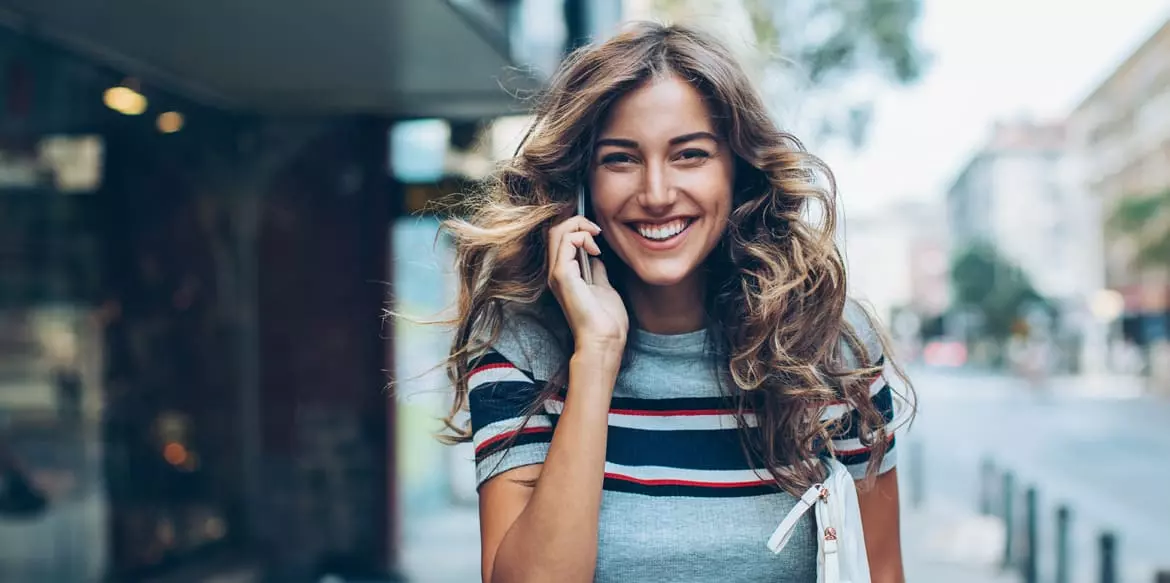
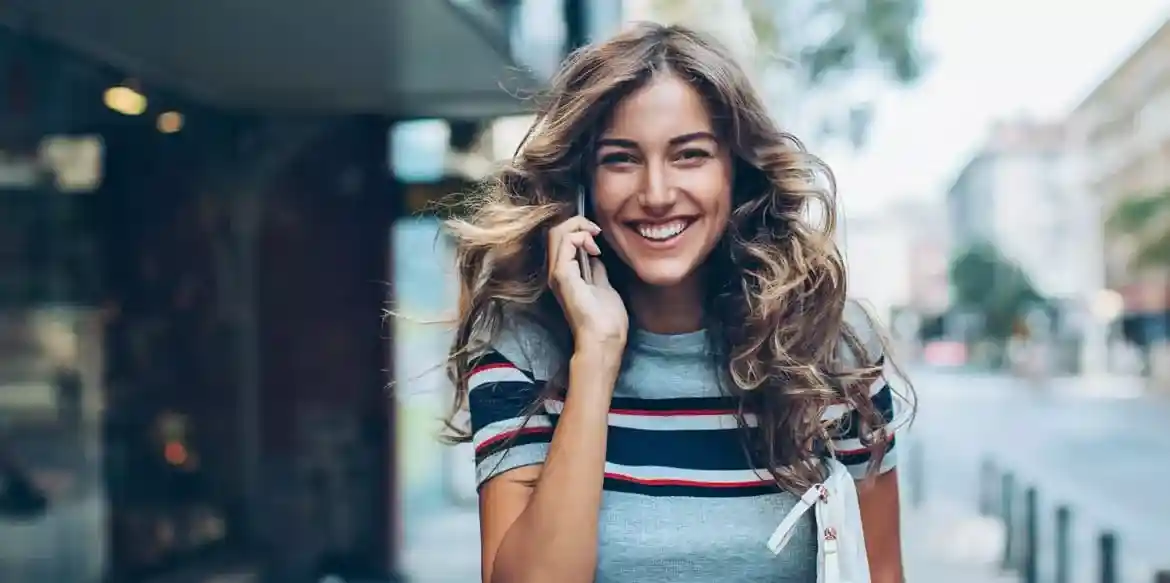
changes for images opimization

diff --git a/src/app/deals/pages/grid-view-promotion/grid-view-promotion.component.ts b/src/app/deals/pages/grid-view-promotion/grid-view-promotion.component.ts
@@ -20,26 +20,26 @@ import { RazaLayoutService } from '../../../core/services/raza-layout.service';
 import { BreakpointObserver } from '@angular/cdk/layout';
 
 import { DealsService } from '../../../deals/deals.service';
- 
+
 import { SearchRatesService } from '../../../rates/searchrates.service';
 import { GlobalRatesService } from '../../../home/globalrates.service';
- 
+
 import { DealRate } from '../../../deals/model/dealRate';
 import { ApiErrorResponse } from '../../../core/models/ApiErrorResponse';
 import { GlobalBuyComponent } from '../../../globalrates/global-buy/global-buy.component';
- 
+
 
 import { RazaEnvironmentService } from '../../../core/services/razaEnvironment.service';
 import { CountriesService } from '../../../core/services/country.service';
 import { Country } from '../../../shared/model/country';
 import { PromotionsService } from '../../services/promotions.service';
- 
+
 import { NodataFoundComponent } from '../../../core/nodata-found/nodata-found.component';
 
 import { PlanService } from '../../../accounts/services/planService';
 import { ICheckoutModel } from '../../../checkout/models/checkout-model';
 import { ValidateCouponCodeResponseModel , ValidateCouponCodeRequestModel} from 'app/payments/models/validate-couponcode-request.model';
-import { TransactionService } from '../../../payments/services/transaction.service'; 
+import { TransactionService } from '../../../payments/services/transaction.service';
 import { ErrorDialogComponent } from '../../../shared/dialog/error-dialog/error-dialog.component';
 import { ErrorDialogModel } from '../../../shared/model/error-dialog.model';
 import { MetaTagsService } from 'app/core/services/meta.service';
@@ -53,7 +53,7 @@ export class GridViewPromotionComponent implements OnInit {
   promotion: Promotion;
   currentSetting$: Subscription;
   currentSetting: CurrentSetting;
-  
+
   showmore: any;
   plan: PromotionPlan;
   promotionCode:string;
@@ -91,14 +91,14 @@ export class GridViewPromotionComponent implements OnInit {
     private promotionsService:PromotionsService,
     private planService: PlanService,
     private transactionService: TransactionService, private metaTagsService:MetaTagsService
-    
+
   ) { }
-   
-  
-      
-	
-     
-   
+
+
+
+
+
+
   ngOnInit() {
   //this.razalayoutService.setFixedHeader(true);
     //this.isSmallScreen = this.breakpointObserver.isMatched('(max-width: 868px)');
@@ -106,11 +106,11 @@ export class GridViewPromotionComponent implements OnInit {
     this.metaTagsService.getMetaTagsData('buy1-get1');
 
     if (this.authService.isAuthenticated()) {
-    //this.planService.getPlanInfo(localStorage.getItem("login_no")).subscribe( 
-      this.planService.getStoredPlan(localStorage.getItem("login_no")).subscribe( 
+    //this.planService.getPlanInfo(localStorage.getItem("login_no")).subscribe(
+      this.planService.getStoredPlan(localStorage.getItem("login_no")).subscribe(
       (res:any)=>{
-        
-         
+
+
         if(res.CardId && res.CardId !== 'undefined')
         {
             var obj =  {
@@ -121,11 +121,11 @@ export class GridViewPromotionComponent implements OnInit {
               Price: 3,
               TransType: TransactionType.Recharge
           }
-  
+
           this.validateCoupon(obj).then((res: ValidateCouponCodeResponseModel) => {
-            if (res.Status) 
+            if (res.Status)
             {
-  
+
             }
             else{
               let error = new ErrorDialogModel();
@@ -134,12 +134,12 @@ export class GridViewPromotionComponent implements OnInit {
               this.openErrorDialog(error);
               this.router.navigate(['/account/overview']);
             }
-          
+
           })
         }
-       
+
       }
-   
+
     );
   }
 
@@ -150,9 +150,9 @@ export class GridViewPromotionComponent implements OnInit {
     //this.allCountry = this.plan.Denominations;
     this.currentSetting$ = this.razaEnvService.getCurrentSetting().subscribe(res => {
       this.currentSetting = res;
-      
+
     });
-   
+
     this.getPromotionSrvCall();
     this.getCountryFrom();
 
@@ -166,10 +166,10 @@ export class GridViewPromotionComponent implements OnInit {
       setTimeout(() => {
         this.contentLoaded = true;
       }, 2000);
-  
+
   }
 
- 
+
 
   openErrorDialog(error: ErrorDialogModel): void {
     this.dialog.open(ErrorDialogComponent, {
@@ -216,11 +216,11 @@ return unique;
 
 
 setDenominations = () =>{
-   
+
         //this.limitDenomination = data.Plans[0].Denominations.splice(0, 5);
-        
+
         this.limitDenomination =  this._filterDenomination( this.defaultChar);
-       
+
 }
 
 setChar = obj =>{
@@ -233,34 +233,34 @@ setChar = obj =>{
  this.promotionsService.getPromotion(this.currentSetting.currentCountryId, this.promotionCode).subscribe(
   (data: any) => {
     var subpans = data
-      
-      
-      if ( data && typeof data.Plans !== undefined ) 
+
+
+      if ( data && typeof data.Plans !== undefined )
       {
         this.promotion = data.Plans[0];
-         
+
         this.allDenomination = data.Plans[0].Denominations;
         //this.limitDenomination = data.Plans[0].Denominations.splice(0, 5);
         this.setDenominations()
         this.allCountry = this.multiDimensionalUnique(data.Plans[0].Denominations);
       }
       else{
-         
+
         this.limitDenomination = [];
         this.allCountry = [];
 
         this.dialog.open(NodataFoundComponent, {
           data:{
             msg:'No Data Found' },
-           
+
           width: '85vw',
           maxWidth: '1235px'
         });
       }
-      
-     
-     
-     
+
+
+
+
   }
   , (err: ApiErrorResponse) => console.log(err));
 }
@@ -289,10 +289,10 @@ setChar = obj =>{
 
   private getCountryFrom() {
     this.countryService.getFromCountries().subscribe((res: Country[]) => {
-      
+
       //this.countryFrom = res;
-      console.log(res)
-      this.countryFrom = res.filter(({ CountryId }) => CountryId !== 3);
+      this.countryFrom = res
+      // this.countryFrom = res.filter(({ CountryId }) => CountryId !== 3);
     });
   }
 
@@ -301,10 +301,10 @@ setChar = obj =>{
     return this.allCountry.filter(option => option.CountryToName.toLowerCase().indexOf(filterValue) === 0);
   }
 
- 
 
-  
-   
+
+
+
   showMoreCountry() {
     this.limitDenomination = this.plan.Denominations;
     this.showmore = true
@@ -321,7 +321,7 @@ setChar = obj =>{
 
 
   get LandingPageBanner() {
-    
+
     // return `url(assets/images/promotions/newyear/${this.promotion.LandingPageImage}) no-repeat center 100%`;
     return `url('assets/images/existingcustomers-d.jpg') no-repeat cover`;
 
@@ -355,7 +355,7 @@ setChar = obj =>{
     } else {
       this.router.navigate(['/checkout']);
     }
- 
+
 /*
     const model: RechargeCheckoutModel = new RechargeCheckoutModel();
 
@@ -375,7 +375,7 @@ setChar = obj =>{
     this.checkoutService.setCurrentCart(model);
 */
   }
-  
+
   openContactUsDialog() {
     const dialogRef1 = this.dialog.open(CallUsComponent,);
   }
@@ -410,7 +410,7 @@ setChar = obj =>{
   displayFn(country?: any): string | undefined {
     return country ? country.CountryName : undefined;
   }
-  
+
   onClickClose(icon) {
     if (icon == '../assets/images/cross8.png') {
       this.searchicon = '../assets/images/search8.svg';
@@ -445,14 +445,14 @@ setChar = obj =>{
     }
   }
 
-  
+
   getImageName(name:any)
   {
     return name.replace(/\s+/g, '');
   }
   plandenomination(country: any )
   {
-    
+
      this.countryTo = country;
      var denomination = this.getDenominationByCountry(country.CountryId);
      var price = 0;
@@ -462,8 +462,8 @@ setChar = obj =>{
      }
     return  price;
      console.log(denomination);
-  
-    
+
+
   }
   getDenominationByCountry(countryId: number): PromotionPlanDenomination[] {
     return this.plan.Denominations.filter(a => a.CountryToId === countryId);

diff --git a/src/app/core/sidemenu/sidemenu.component.html b/src/app/core/sidemenu/sidemenu.component.html
@@ -1,5 +1,5 @@
 <div *ngIf="IsEnableLoggedIn">
-  
+
   <ul class="homeSideMenus">
     <li class="recharge"><a routerLink="/account/overview" ><span></span> Recharge</a></li>
     <li class="payment-details"><a routerLink="/account/payment-details/{{plan?.PlanId}}" ><span></span> Payment Details</a>
@@ -47,7 +47,7 @@
 
   </ul>
 </div>
- 
+
 <div *ngIf="!IsEnableLoggedIn">
 <a mat-list-item routerLink="/">
   <span class="mainSpan">HOME
@@ -85,7 +85,7 @@
   <span class="mainSpan">SIGNUP / LOGIN
     <span class="slider"></span>
   </span>
-  <span class="subMenu"><img src="assets/images/sub_menu_icon.svg" alt="arrow down" /></span>
+  <span class="subMenu"><img src="assets/images/sub_menu_icon.svg" alt="arrow down" width="10" height="14" /></span>
 </a>
 <!-- <a mat-list-item routerLink=".">
   <span class="mainSpan">LIVE CHAT

diff --git a/src/app/core/header/header.component.html b/src/app/core/header/header.component.html
@@ -293,10 +293,10 @@
         <mat-icon>menu</mat-icon>
       </button> -->
       <button *ngIf="otherPlans" class="menu_btn" (click)="sidenav.toggle()">
-        <img src="../../../assets/images/myaccount_icons/menu-normal.png" alt="menu" />
+        <img src="../../../assets/images/myaccount_icons/menu-normal.png" width="22" height="16" alt="menu"/>
       </button>
       <button *ngIf="!otherPlans" class="menu_btn" (click)="clickMenu()">
-        <img src="../../../assets/images/myaccount_icons/menu-normal.png" alt="menu" />
+        <img src="../../../assets/images/myaccount_icons/menu-normal.png" width="22" height="16" alt="menu" />
       </button>
 
       <!-- <ng-container *ngTemplateOutlet="DealsDropMenu"></ng-container> -->

diff --git a/src/app/home/homepage/homepage.component_copy_18_sep.html b/src/app/home/homepage/homepage.component_copy_18_sep.html
@@ -487,7 +487,7 @@
                 <h4>Do you own a <br />business?</h4>
                 <p>Partner with us!</p>
                 <p routerLink="/becomeapartner" class="smallText">I’M INTERESTED <span><img loading="lazy"
-              src="./assets/images/arrow_first.png" alt="icon"/></span></p>
+              src="./assets/images/arrow_first.png" alt="icon" width="18" height="7" /></span></p>
             </div>
             <div class="imageareaNew">
                 <img loading="lazy" src="./assets/images/partnerwithus.png" width="132" height="103" alt="icon" />

diff --git a/src/app/app.component.html b/src/app/app.component.html
@@ -3,7 +3,7 @@
   <mat-sidenav class="slidemenu hideSome" fixedInViewport="true" #sidenav [mode]="mode.value">
     <div class="closs_area">
       <span class="cross-icon" (click)="toggleSideNav()">
-        <img src="assets/images/cross_icon_sidemenu.jpg" alt="" />
+        <img src="assets/images/cross_icon_sidemenu.jpg" alt="cross icon"  width="86" height="77"/>
       </span>
       <span>
         <mat-form-field>

diff --git a/src/app/globalcall/globalcall.component.scss b/src/app/globalcall/globalcall.component.scss
@@ -1282,7 +1282,7 @@ section.plan-section {
         padding: 7px 0 12px 10px;
     }
     .top-header .country img {
-        width: 60px;
+        width: 50px;
     }
     .country-name h1 {
         font-size: 24px;

diff --git a/src/app/deals/pages/grid-view-promotion/grid-view-promotion.component.scss b/src/app/deals/pages/grid-view-promotion/grid-view-promotion.component.scss
@@ -322,6 +322,7 @@ $background-color_1: #ffffff;
 
 .flag_list1 li {
     list-style: none;
+    padding: 4px 0;
 }
 
 .flag_list1 ul {
